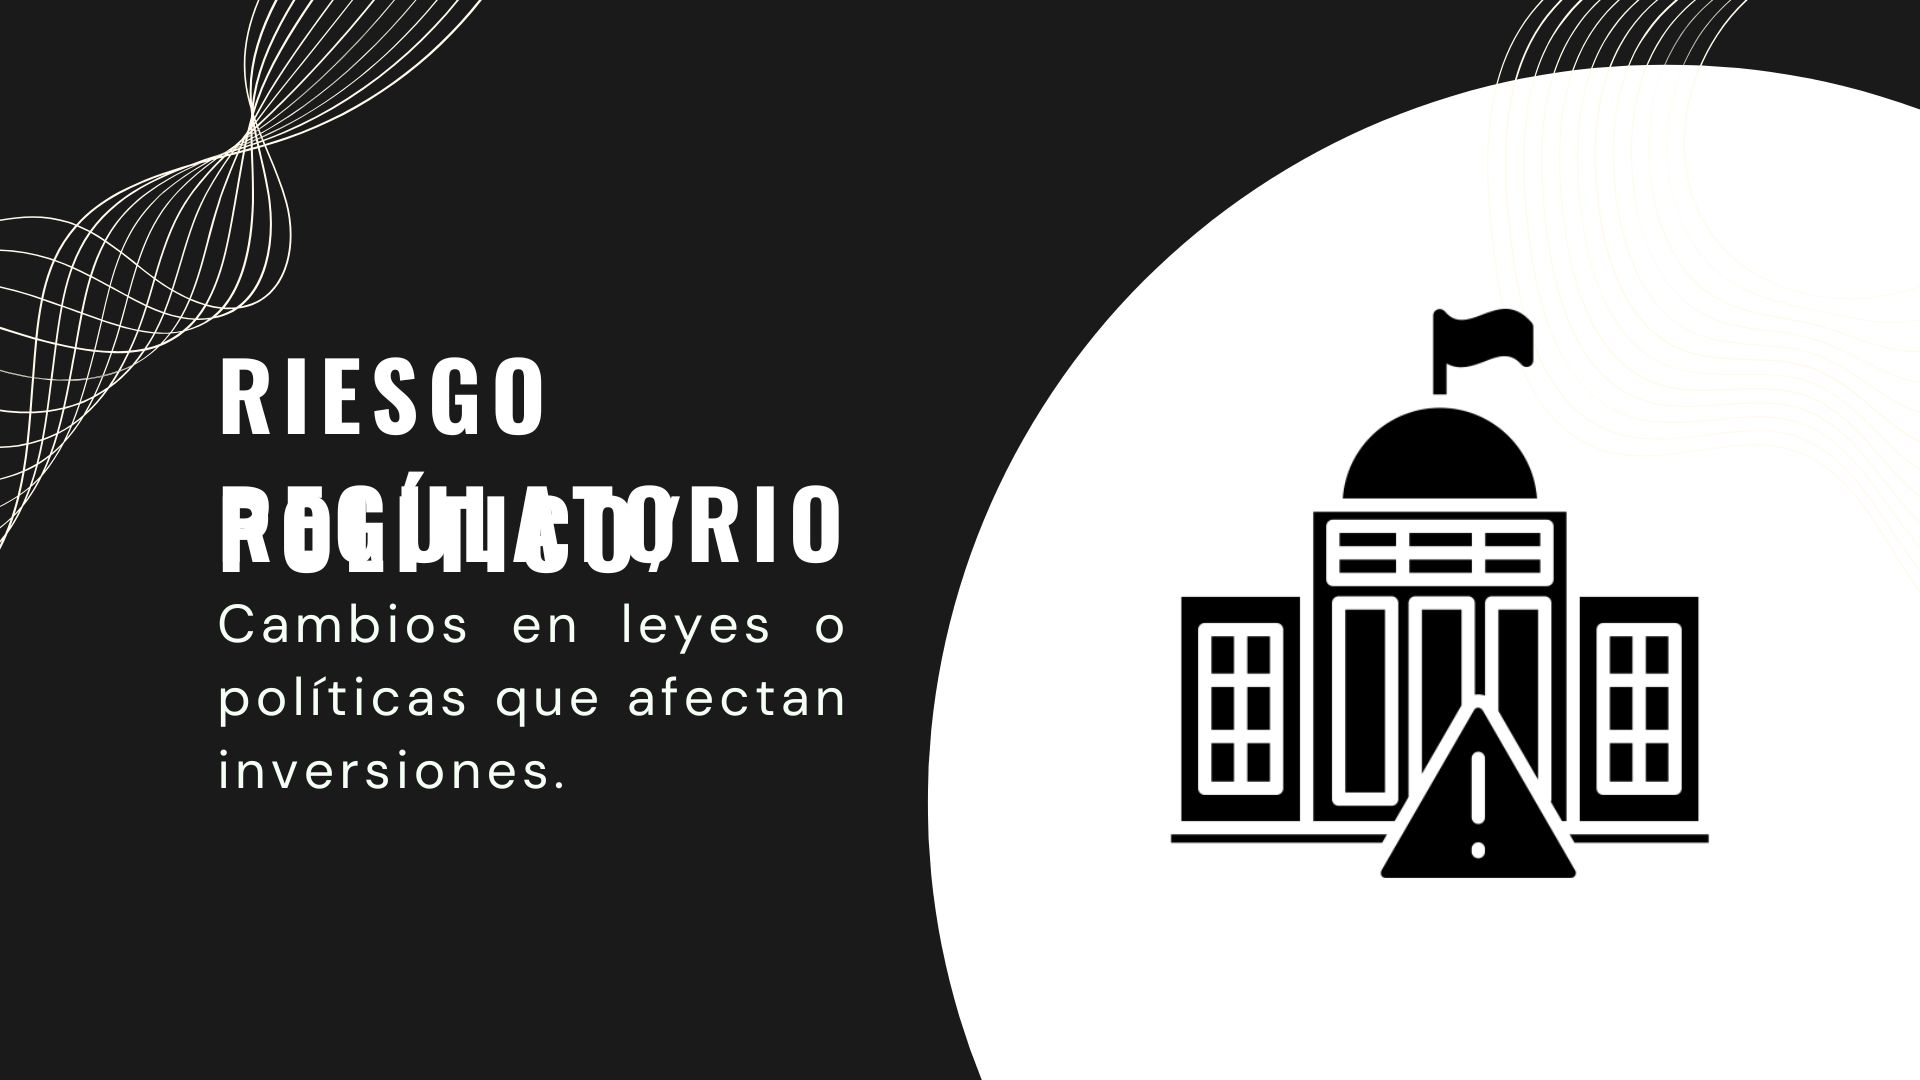
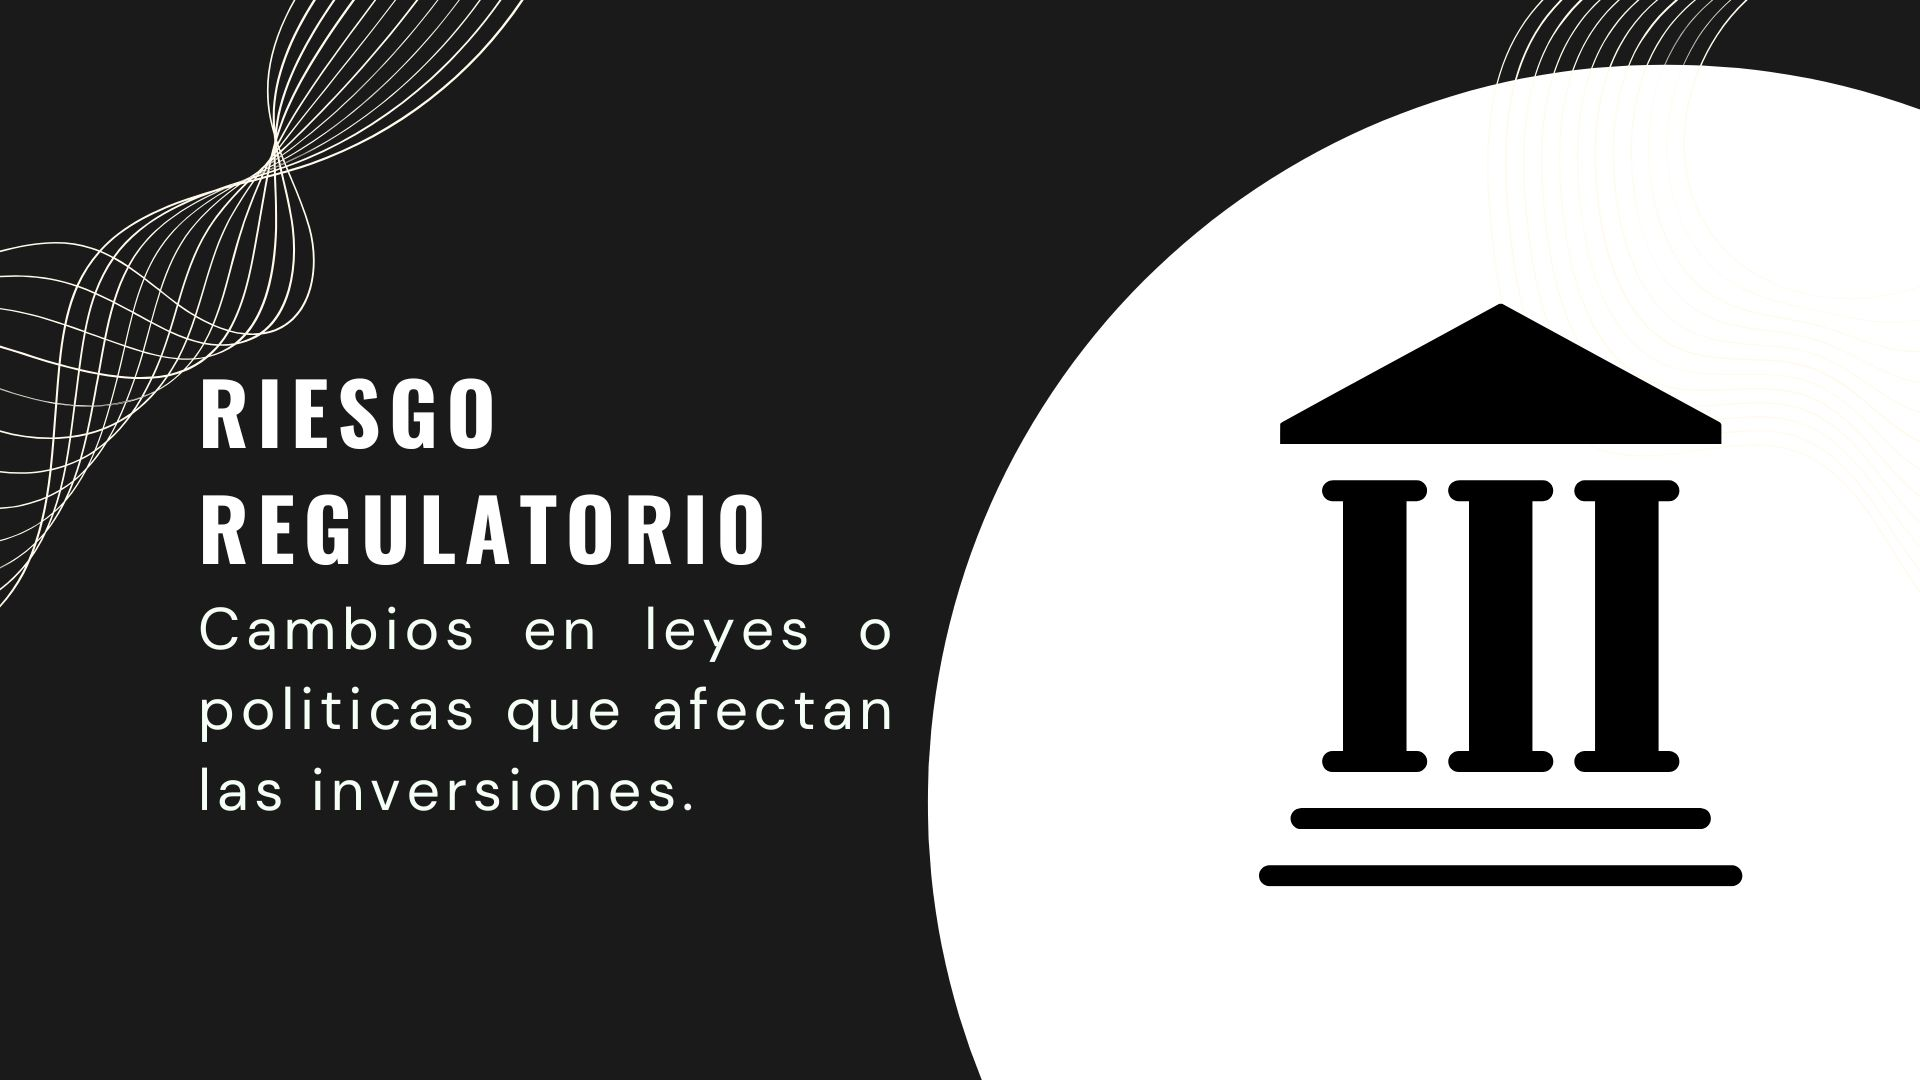
Terminando login

diff --git a/src/login/login.js b/src/login/login.js
@@ -1,59 +1,102 @@
 const Login = () => {
-    
     return (
-        <section className="bg-white dark:bg-gray-900">
+        <section className="bg-white dark:bg-gray-500 m-4 rounded-xl">
             <div className="py-8 px-4 mx-auto max-w-screen-xl sm:py-16 lg:px-6">
                 <div className="max-w-screen-md mb-8 lg:mb-16">
-                    <h2 className="mb-4 text-4xl tracking-tight font-extrabold text-gray-900 dark:text-white">Designed for business teams like yours</h2>
-                    <p className="text-gray-500 sm:text-xl dark:text-gray-400">Here at Flowbite we focus on markets where technology, innovation, and capital can unlock long-term value and drive economic growth.</p>
+                    <h2 className="mb-4 text-4xl tracking-tight font-extrabold text-gray-900 dark:text-white">
+                        Aprende a invertir con datos reales y decisiones inteligentes
+                    </h2>
+                    <p className="text-[#FFFFFF] sm:text-xl">
+                        Esta plataforma te guía paso a paso en el mundo de las finanzas e inversiones,
+                        combinando teoría, práctica y simulaciones reales para que aprendas a evaluar riesgos,
+                        tomar mejores decisiones y alcanzar tus metas financieras.
+                    </p>
                 </div>
+
                 <div className="space-y-8 md:grid md:grid-cols-2 lg:grid-cols-3 md:gap-12 md:space-y-0">
-                    <div>
-                        <div className="flex justify-center items-center mb-4 w-10 h-10 rounded-full bg-primary-100 lg:h-12 lg:w-12 dark:bg-primary-900">
-                            <svg className="w-5 h-5 text-primary-600 lg:w-6 lg:h-6 dark:text-primary-300" fill="currentColor" viewBox="0 0 20 20" xmlns="http://www.w3.org/2000/svg"><path fill-rule="evenodd" d="M3 3a1 1 0 000 2v8a2 2 0 002 2h2.586l-1.293 1.293a1 1 0 101.414 1.414L10 15.414l2.293 2.293a1 1 0 001.414-1.414L12.414 15H15a2 2 0 002-2V5a1 1 0 100-2H3zm11.707 4.707a1 1 0 00-1.414-1.414L10 9.586 8.707 8.293a1 1 0 00-1.414 0l-2 2a1 1 0 101.414 1.414L8 10.414l1.293 1.293a1 1 0 001.414 0l4-4z" clip-rule="evenodd"></path></svg>
+                    <div className="flex flex-col">
+                        <div className="bg-[#000000] text-[#FFFFFF] w-fit mr-auto ml-auto rounded-full p-4 mb-4">
+                            <svg xmlns="http://www.w3.org/2000/svg" width="72" height="72" viewBox="0 0 24 24" fill="none" stroke="currentColor" stroke-width="2" stroke-linecap="round" stroke-linejoin="round" class="icon icon-tabler icons-tabler-outline icon-tabler-chart-dots-3"><path stroke="none" d="M0 0h24v24H0z" fill="none" /><path d="M5 7m-2 0a2 2 0 1 0 4 0a2 2 0 1 0 -4 0" /><path d="M16 15m-2 0a2 2 0 1 0 4 0a2 2 0 1 0 -4 0" /><path d="M18 6m-3 0a3 3 0 1 0 6 0a3 3 0 1 0 -6 0" /><path d="M6 18m-3 0a3 3 0 1 0 6 0a3 3 0 1 0 -6 0" /><path d="M9 17l5 -1.5" /><path d="M6.5 8.5l7.81 5.37" /><path d="M7 7l8 -1" /></svg>
                         </div>
-                        <h3 className="mb-2 text-xl font-bold dark:text-white">Marketing</h3>
-                        <p className="text-gray-500 dark:text-gray-400">Plan it, create it, launch it. Collaborate seamlessly with all  the organization and hit your marketing goals every month with our marketing plan.</p>
-                    </div>
-                    <div>
-                        <div className="flex justify-center items-center mb-4 w-10 h-10 rounded-full bg-primary-100 lg:h-12 lg:w-12 dark:bg-primary-900">
-                            <svg className="w-5 h-5 text-primary-600 lg:w-6 lg:h-6 dark:text-primary-300" fill="currentColor" viewBox="0 0 20 20" xmlns="http://www.w3.org/2000/svg"><path d="M10.394 2.08a1 1 0 00-.788 0l-7 3a1 1 0 000 1.84L5.25 8.051a.999.999 0 01.356-.257l4-1.714a1 1 0 11.788 1.838L7.667 9.088l1.94.831a1 1 0 00.787 0l7-3a1 1 0 000-1.838l-7-3zM3.31 9.397L5 10.12v4.102a8.969 8.969 0 00-1.05-.174 1 1 0 01-.89-.89 11.115 11.115 0 01.25-3.762zM9.3 16.573A9.026 9.026 0 007 14.935v-3.957l1.818.78a3 3 0 002.364 0l5.508-2.361a11.026 11.026 0 01.25 3.762 1 1 0 01-.89.89 8.968 8.968 0 00-5.35 2.524 1 1 0 01-1.4 0zM6 18a1 1 0 001-1v-2.065a8.935 8.935 0 00-2-.712V17a1 1 0 001 1z"></path></svg>
+                        <div className="text-[#FFFFFF]">
+                            <h3 className="mb-2 text-xl font-bold w-fit mr-auto ml-auto">Aprendizaje por hitos</h3>
+                            <p className="text-justify">
+                                Avanza por niveles de aprendizaje que abarcan desde los conceptos básicos de educación financiera
+                                hasta el cálculo e interpretación del Valor en Riesgo (VaR).
+                            </p>
                         </div>
-                        <h3 className="mb-2 text-xl font-bold dark:text-white">Legal</h3>
-                        <p className="text-gray-500 dark:text-gray-400">Protect your organization, devices and stay compliant with our structured workflows and custom permissions made for you.</p>
                     </div>
-                    <div>
-                        <div className="flex justify-center items-center mb-4 w-10 h-10 rounded-full bg-primary-100 lg:h-12 lg:w-12 dark:bg-primary-900">
-                            <svg className="w-5 h-5 text-primary-600 lg:w-6 lg:h-6 dark:text-primary-300" fill="currentColor" viewBox="0 0 20 20" xmlns="http://www.w3.org/2000/svg"><path fill-rule="evenodd" d="M6 6V5a3 3 0 013-3h2a3 3 0 013 3v1h2a2 2 0 012 2v3.57A22.952 22.952 0 0110 13a22.95 22.95 0 01-8-1.43V8a2 2 0 012-2h2zm2-1a1 1 0 011-1h2a1 1 0 011 1v1H8V5zm1 5a1 1 0 011-1h.01a1 1 0 110 2H10a1 1 0 01-1-1z" clip-rule="evenodd"></path><path d="M2 13.692V16a2 2 0 002 2h12a2 2 0 002-2v-2.308A24.974 24.974 0 0110 15c-2.796 0-5.487-.46-8-1.308z"></path></svg>
+
+                    <div className="flex flex-col">
+                        <div className="bg-[#000000] text-[#FFFFFF] w-fit mr-auto ml-auto rounded-full p-4 mb-4">
+                            <svg xmlns="http://www.w3.org/2000/svg" width="72" height="72" viewBox="0 0 24 24" fill="none" stroke="currentColor" stroke-width="2" stroke-linecap="round" stroke-linejoin="round" class="icon icon-tabler icons-tabler-outline icon-tabler-device-vision-pro"><path stroke="none" d="M0 0h24v24H0z" fill="none" /><path d="M12 7c1.143 0 2.235 .035 3.275 .104c1.017 .068 1.95 .207 2.798 .42c.813 .203 1.52 .505 2.119 .909a3.903 3.903 0 0 1 1.328 1.531c.326 .657 .48 1.48 .48 2.466c0 1.006 -.189 1.91 -.574 2.707c-.375 .779 -.886 1.396 -1.537 1.848a3.696 3.696 0 0 1 -2.16 .66c-.509 0 -.97 -.068 -1.382 -.21a5.84 5.84 0 0 1 -1.17 -.548a18.45 18.45 0 0 1 -1.045 -.695a9.104 9.104 0 0 0 -1.001 -.63a2.376 2.376 0 0 0 -1.13 -.301c-.373 0 -.75 .097 -1.132 .3c-.316 .17 -.65 .38 -1 .63c-.322 .23 -.67 .462 -1.047 .695a5.78 5.78 0 0 1 -1.168 .548c-.413 .142 -.872 .21 -1.378 .21a3.706 3.706 0 0 1 -2.165 -.659c-.651 -.452 -1.162 -1.07 -1.537 -1.848c-.385 -.798 -.574 -1.7 -.574 -2.709c-.004 -.98 .15 -1.802 .477 -2.46a3.897 3.897 0 0 1 1.33 -1.531c.6 -.403 1.307 -.704 2.12 -.907a16.088 16.088 0 0 1 2.8 -.423c1.04 -.071 2.13 -.107 3.273 -.107z" /></svg>
                         </div>
-                        <h3 className="mb-2 text-xl font-bold dark:text-white">Business Automation</h3>
-                        <p className="text-gray-500 dark:text-gray-400">Auto-assign tasks, send Slack messages, and much more. Now power up with hundreds of new templates to help you get started.</p>
-                    </div>
-                    <div>
-                        <div className="flex justify-center items-center mb-4 w-10 h-10 rounded-full bg-primary-100 lg:h-12 lg:w-12 dark:bg-primary-900">
-                            <svg className="w-5 h-5 text-primary-600 lg:w-6 lg:h-6 dark:text-primary-300" fill="currentColor" viewBox="0 0 20 20" xmlns="http://www.w3.org/2000/svg"><path d="M8.433 7.418c.155-.103.346-.196.567-.267v1.698a2.305 2.305 0 01-.567-.267C8.07 8.34 8 8.114 8 8c0-.114.07-.34.433-.582zM11 12.849v-1.698c.22.071.412.164.567.267.364.243.433.468.433.582 0 .114-.07.34-.433.582a2.305 2.305 0 01-.567.267z"></path><path fill-rule="evenodd" d="M10 18a8 8 0 100-16 8 8 0 000 16zm1-13a1 1 0 10-2 0v.092a4.535 4.535 0 00-1.676.662C6.602 6.234 6 7.009 6 8c0 .99.602 1.765 1.324 2.246.48.32 1.054.545 1.676.662v1.941c-.391-.127-.68-.317-.843-.504a1 1 0 10-1.51 1.31c.562.649 1.413 1.076 2.353 1.253V15a1 1 0 102 0v-.092a4.535 4.535 0 001.676-.662C13.398 13.766 14 12.991 14 12c0-.99-.602-1.765-1.324-2.246A4.535 4.535 0 0011 9.092V7.151c.391.127.68.317.843.504a1 1 0 101.511-1.31c-.563-.649-1.413-1.076-2.354-1.253V5z" clip-rule="evenodd"></path></svg>
+                        <div className="text-[#FFFFFF] ">
+                            <h3 className="mb-2 text-xl font-bold w-fit mr-auto ml-auto">Simulador financiero</h3>
+                            <p className="text-justify">
+                                Experimenta con empresas reales y analiza su comportamiento histórico.
+                                Calcula el riesgo potencial de tus inversiones con diferentes niveles de confianza y horizontes temporales.
+                            </p>
                         </div>
-                        <h3 className="mb-2 text-xl font-bold dark:text-white">Finance</h3>
-                        <p className="text-gray-500 dark:text-gray-400">Audit-proof software built for critical financial operations like month-end close and quarterly budgeting.</p>
                     </div>
-                    <div>
-                        <div className="flex justify-center items-center mb-4 w-10 h-10 rounded-full bg-primary-100 lg:h-12 lg:w-12 dark:bg-primary-900">
-                            <svg className="w-5 h-5 text-primary-600 lg:w-6 lg:h-6 dark:text-primary-300" fill="currentColor" viewBox="0 0 20 20" xmlns="http://www.w3.org/2000/svg"><path d="M7 3a1 1 0 000 2h6a1 1 0 100-2H7zM4 7a1 1 0 011-1h10a1 1 0 110 2H5a1 1 0 01-1-1zM2 11a2 2 0 012-2h12a2 2 0 012 2v4a2 2 0 01-2 2H4a2 2 0 01-2-2v-4z"></path></svg>
+
+
+                    <div className="flex flex-col">
+                        <div className="bg-[#000000] text-[#FFFFFF] w-fit mr-auto ml-auto rounded-full p-4 mb-4">
+                            <svg xmlns="http://www.w3.org/2000/svg" width="72" height="72" viewBox="0 0 24 24" fill="none" stroke="currentColor" stroke-width="2" stroke-linecap="round" stroke-linejoin="round" class="icon icon-tabler icons-tabler-outline icon-tabler-git-pull-request-closed"><path stroke="none" d="M0 0h24v24H0z" fill="none" /><path d="M6 18m-2 0a2 2 0 1 0 4 0a2 2 0 1 0 -4 0" /><path d="M6 6m-2 0a2 2 0 1 0 4 0a2 2 0 1 0 -4 0" /><path d="M18 18m-2 0a2 2 0 1 0 4 0a2 2 0 1 0 -4 0" /><path d="M6 8v8" /><path d="M18 11v5" /><path d="M16 4l4 4m0 -4l-4 4" /></svg>
                         </div>
-                        <h3 className="mb-2 text-xl font-bold dark:text-white">Enterprise Design</h3>
-                        <p className="text-gray-500 dark:text-gray-400">Craft beautiful, delightful experiences for both marketing and product with real cross-company collaboration.</p>
-                    </div>
-                    <div>
-                        <div className="flex justify-center items-center mb-4 w-10 h-10 rounded-full bg-primary-100 lg:h-12 lg:w-12 dark:bg-primary-900">
-                            <svg className="w-5 h-5 text-primary-600 lg:w-6 lg:h-6 dark:text-primary-300" fill="currentColor" viewBox="0 0 20 20" xmlns="http://www.w3.org/2000/svg"><path fill-rule="evenodd" d="M11.49 3.17c-.38-1.56-2.6-1.56-2.98 0a1.532 1.532 0 01-2.286.948c-1.372-.836-2.942.734-2.106 2.106.54.886.061 2.042-.947 2.287-1.561.379-1.561 2.6 0 2.978a1.532 1.532 0 01.947 2.287c-.836 1.372.734 2.942 2.106 2.106a1.532 1.532 0 012.287.947c.379 1.561 2.6 1.561 2.978 0a1.533 1.533 0 012.287-.947c1.372.836 2.942-.734 2.106-2.106a1.533 1.533 0 01.947-2.287c1.561-.379 1.561-2.6 0-2.978a1.532 1.532 0 01-.947-2.287c.836-1.372-.734-2.942-2.106-2.106a1.532 1.532 0 01-2.287-.947zM10 13a3 3 0 100-6 3 3 0 000 6z" clip-rule="evenodd"></path></svg>
+                        <div className="text-[#FFFFFF]">
+                            <h3 className="mb-2 text-xl font-bold w-fit mr-auto ml-auto">Toma de decisiones</h3>
+                            <p className=" text-justify">
+                                Comprende los resultados de tus simulaciones y aprende a interpretar los datos para decidir con confianza.
+                                Transforma la información en estrategias financieras inteligentes.
+                            </p>
                         </div>
-                        <h3 className="mb-2 text-xl font-bold dark:text-white">Operations</h3>
-                        <p className="text-gray-500 dark:text-gray-400">Keep your company’s lights on with customizable, iterative, and structured workflows built for all efficient teams and individual.</p>
                     </div>
+
+                    <div className="flex flex-col">
+                        <div className="bg-[#000000] w-fit mr-auto ml-auto rounded-full p-4 mb-4 text-[#FFFFFF] hover:scale-105 ">
+                            <svg xmlns="http://www.w3.org/2000/svg" width="72" height="72" viewBox="0 0 24 24" fill="none" stroke="currentColor" stroke-width="2" stroke-linecap="round" stroke-linejoin="round" class="icon icon-tabler icons-tabler-outline icon-tabler-progress"><path stroke="none" d="M0 0h24v24H0z" fill="none" /><path d="M10 20.777a8.942 8.942 0 0 1 -2.48 -.969" /><path d="M14 3.223a9.003 9.003 0 0 1 0 17.554" /><path d="M4.579 17.093a8.961 8.961 0 0 1 -1.227 -2.592" /><path d="M3.124 10.5c.16 -.95 .468 -1.85 .9 -2.675l.169 -.305" /><path d="M6.907 4.579a8.954 8.954 0 0 1 3.093 -1.356" /></svg>
+                        </div>
+                        <div className="text-[#FFFFFF]">
+                            <h3 className="mb-2 text-xl font-bold w-fit mr-auto ml-auto">Seguimiento de progreso</h3>
+                            <p className="text-justify">
+                                Consulta tu avance en cada módulo y tus resultados de simulaciones.
+                                Observa cómo tus conocimientos y tus decisiones mejoran con el tiempo.
+                            </p>
+                        </div>
+                    </div>
+
+                    <div className="flex flex-col">
+                        <div className="bg-[#000000] text-[#FFFFFF] w-fit mr-auto ml-auto rounded-full p-4 mb-4 ">
+                            <svg xmlns="http://www.w3.org/2000/svg" width="72" height="72" viewBox="0 0 24 24" fill="currentColor" class="icon icon-tabler icons-tabler-filled icon-tabler-shield-lock"><path stroke="none" d="M0 0h24v24H0z" fill="none"/><path d="M11.998 2l.118 .007l.059 .008l.061 .013l.111 .034a.993 .993 0 0 1 .217 .112l.104 .082l.255 .218a11 11 0 0 0 7.189 2.537l.342 -.01a1 1 0 0 1 1.005 .717a13 13 0 0 1 -9.208 16.25a1 1 0 0 1 -.502 0a13 13 0 0 1 -9.209 -16.25a1 1 0 0 1 1.005 -.717a11 11 0 0 0 7.531 -2.527l.263 -.225l.096 -.075a.993 .993 0 0 1 .217 -.112l.112 -.034a.97 .97 0 0 1 .119 -.021l.115 -.007zm.002 7a2 2 0 0 0 -1.995 1.85l-.005 .15l.005 .15a2 2 0 0 0 .995 1.581v1.769l.007 .117a1 1 0 0 0 1.993 -.117l.001 -1.768a2 2 0 0 0 -1.001 -3.732z" /></svg>
+                        </div>
+                        <div className="text-[#FFFFFF]">
+                            <h3 className="mb-2 text-xl font-bold w-fit mr-auto ml-auto">Cuenta segura</h3>
+                            <p className="text-justify">
+                                Inicia sesión con tu cuenta institucional para acceder a tus hitos, resultados y simulaciones personales,
+                                respaldados en la nube mediante Firebase.
+                            </p>
+                        </div>
+                    </div>
+
+                    <div className="flex flex-col">
+                        <div className="bg-[#000000] text-[#FFFFFF] w-fit mr-auto ml-auto rounded-full p-4 mb-4">
+                            <svg xmlns="http://www.w3.org/2000/svg" width="72" height="72" viewBox="0 0 24 24" fill="none" stroke="currentColor" stroke-width="2" stroke-linecap="round" stroke-linejoin="round" class="icon icon-tabler icons-tabler-outline icon-tabler-pencil-heart"><path stroke="none" d="M0 0h24v24H0z" fill="none"/><path d="M17 11l1.5 -1.5a2.828 2.828 0 1 0 -4 -4l-10.5 10.5v4h4l2 -2" /><path d="M13.5 6.5l4 4" /><path d="M18 22l3.35 -3.284a2.143 2.143 0 0 0 .005 -3.071a2.242 2.242 0 0 0 -3.129 -.006l-.224 .22l-.223 -.22a2.242 2.242 0 0 0 -3.128 -.006a2.143 2.143 0 0 0 -.006 3.071l3.355 3.296z" /></svg>
+                        </div>
+                        <div className="text-[#FFFFFF]">
+                            <h3 className="mb-2 text-xl font-bold w-fit mr-auto ml-auto">Aprendizaje autónomo</h3>
+                        <p className="text-justify">
+                            Aprende a tu propio ritmo, con evaluaciones automáticas y acceso a herramientas interactivas diseñadas
+                            para mejorar tu comprensión del riesgo financiero y la gestión del dinero.
+                        </p>
+                        </div>
+                    </div>
+
                 </div>
             </div>
         </section>
     );
-}
+};
 
 export default Login;

diff --git a/src/modulos/hitos/hitoConceptosBasicos.js b/src/modulos/hitos/hitoConceptosBasicos.js
@@ -1,8 +1,9 @@
 import Hitos from "./hitos";
-import imgEstadistica from "../../assets/estadistica.png";
 import Carrusel from "../../componentes/carrusel";
 import EvaluacionHito from "../../componentes/evaluacionHito";
 import useSmoothScroll from "../../hooks/useSmoothScroll";
+
+import conceptos from "../../assets/conceptosBasicos.png"
 
 //Imagenes del carrusel:
 import car1 from "../../assets/car-1.png";
@@ -47,7 +48,7 @@ const HitoConceptosBasicos = () => {
 
                         {/* Imagen a la derecha */}
                         <div className="hidden lg:mt-0 lg:col-span-5 lg:flex bg-[#FFFFFF] rounded-xl h-[350px]">
-                            <img className="w-full p-4" src={imgEstadistica} alt="mockup" />
+                            <img className="w-full p-4" src={conceptos} alt="mockup" />
                         </div>
 
                     </div>

diff --git a/src/modulos/hitos/hitoRendimientoHistorico.js b/src/modulos/hitos/hitoRendimientoHistorico.js
@@ -2,6 +2,8 @@ import Hitos from "./hitos";
 import ComparadorActivos from "../../componentes/comparadorActivos";
 import EvaluacionHito from "../../componentes/evaluacionHito";
 
+import rendimiento from "../../assets/rendimientoHistorico.jpg"
+
 //hook de desplazamiento:
 import useSmoothScroll from "../../hooks/useSmoothScroll";
 
@@ -38,7 +40,7 @@ const HitoRendimientoHistorico = () => {
 
                         {/* Imagen a la derecha */}
                         <div className="hidden lg:mt-0 lg:col-span-5 lg:flex bg-[#FFFFFF] rounded-xl h-[350px]">
-                            <img className="w-full p-4" src="" alt="mockup" />
+                            <img className="w-full p-4" src={rendimiento} alt="mockup" />
                         </div>
 
                     </div>

diff --git a/src/modulos/hitos/hitoEstadisticasBasicas.js b/src/modulos/hitos/hitoEstadisticasBasicas.js
@@ -9,6 +9,7 @@ import useSmoothScroll from "../../hooks/useSmoothScroll";
 //Imagenes del carrusel:
 import car14 from "../../assets/car-14.jpg";
 import car15 from "../../assets/car-15.jpg";
+import estadis from "../../assets/estadisticaBasica.jpg";
 
 const HitoEstadisticasBasicas = () => {
 
@@ -49,7 +50,7 @@ const HitoEstadisticasBasicas = () => {
 
                         {/* Imagen a la derecha */}
                         <div className="hidden lg:mt-0 lg:col-span-5 lg:flex bg-[#FFFFFF] rounded-xl h-[350px]">
-                            <img className="w-full p-4" src={car14} alt="mockup" />
+                            <img className="w-full p-4" src={estadis} alt="mockup" />
                         </div>
 
                     </div>

diff --git a/src/modulos/hitos/hitoVarSimulacion.js b/src/modulos/hitos/hitoVarSimulacion.js
@@ -6,7 +6,7 @@ import EvaluacionHito from "../../componentes/evaluacionHito";
 import useSmoothScroll from "../../hooks/useSmoothScroll";
 
 //Imagenes del carrusel:
-import car1 from "../../assets/car-1.png";
+import simu from "../../assets/simulacionVaR.jpeg";
 
 const HitoVarSimulacion = () => {
 
@@ -46,7 +46,7 @@ const HitoVarSimulacion = () => {
 
                         {/* Imagen a la derecha */}
                         <div className="hidden lg:mt-0 lg:col-span-5 lg:flex bg-[#FFFFFF] rounded-xl h-[350px]">
-                            <img className="w-full p-4" src={car1} alt="mockup" />
+                            <img className="w-full p-4" src={simu} alt="mockup" />
                         </div>
 
                     </div>

diff --git a/src/modulos/hitos/hitoValorRiesgo.js b/src/modulos/hitos/hitoValorRiesgo.js
@@ -1,5 +1,5 @@
 import Hitos from "./hitos";
-import imgEstadistica from "../../assets/estadistica.png";
+import riesgo from "../../assets/riesgoFinanciero.jpg"
 import Carrusel from "../../componentes/carrusel";
 import EvaluacionHito from "../../componentes/evaluacionHito";
 
@@ -58,7 +58,7 @@ const HitoValorRiesgo = () => {
 
                         {/* Imagen a la derecha */}
                         <div className="hidden lg:mt-0 lg:col-span-5 lg:flex bg-[#FFFFFF] rounded-xl h-[350px]">
-                            <img className="w-full p-4" src={imgEstadistica} alt="mockup" />
+                            <img className="w-full p-4" src={riesgo} alt="mockup" />
                         </div>
 
                     </div>
